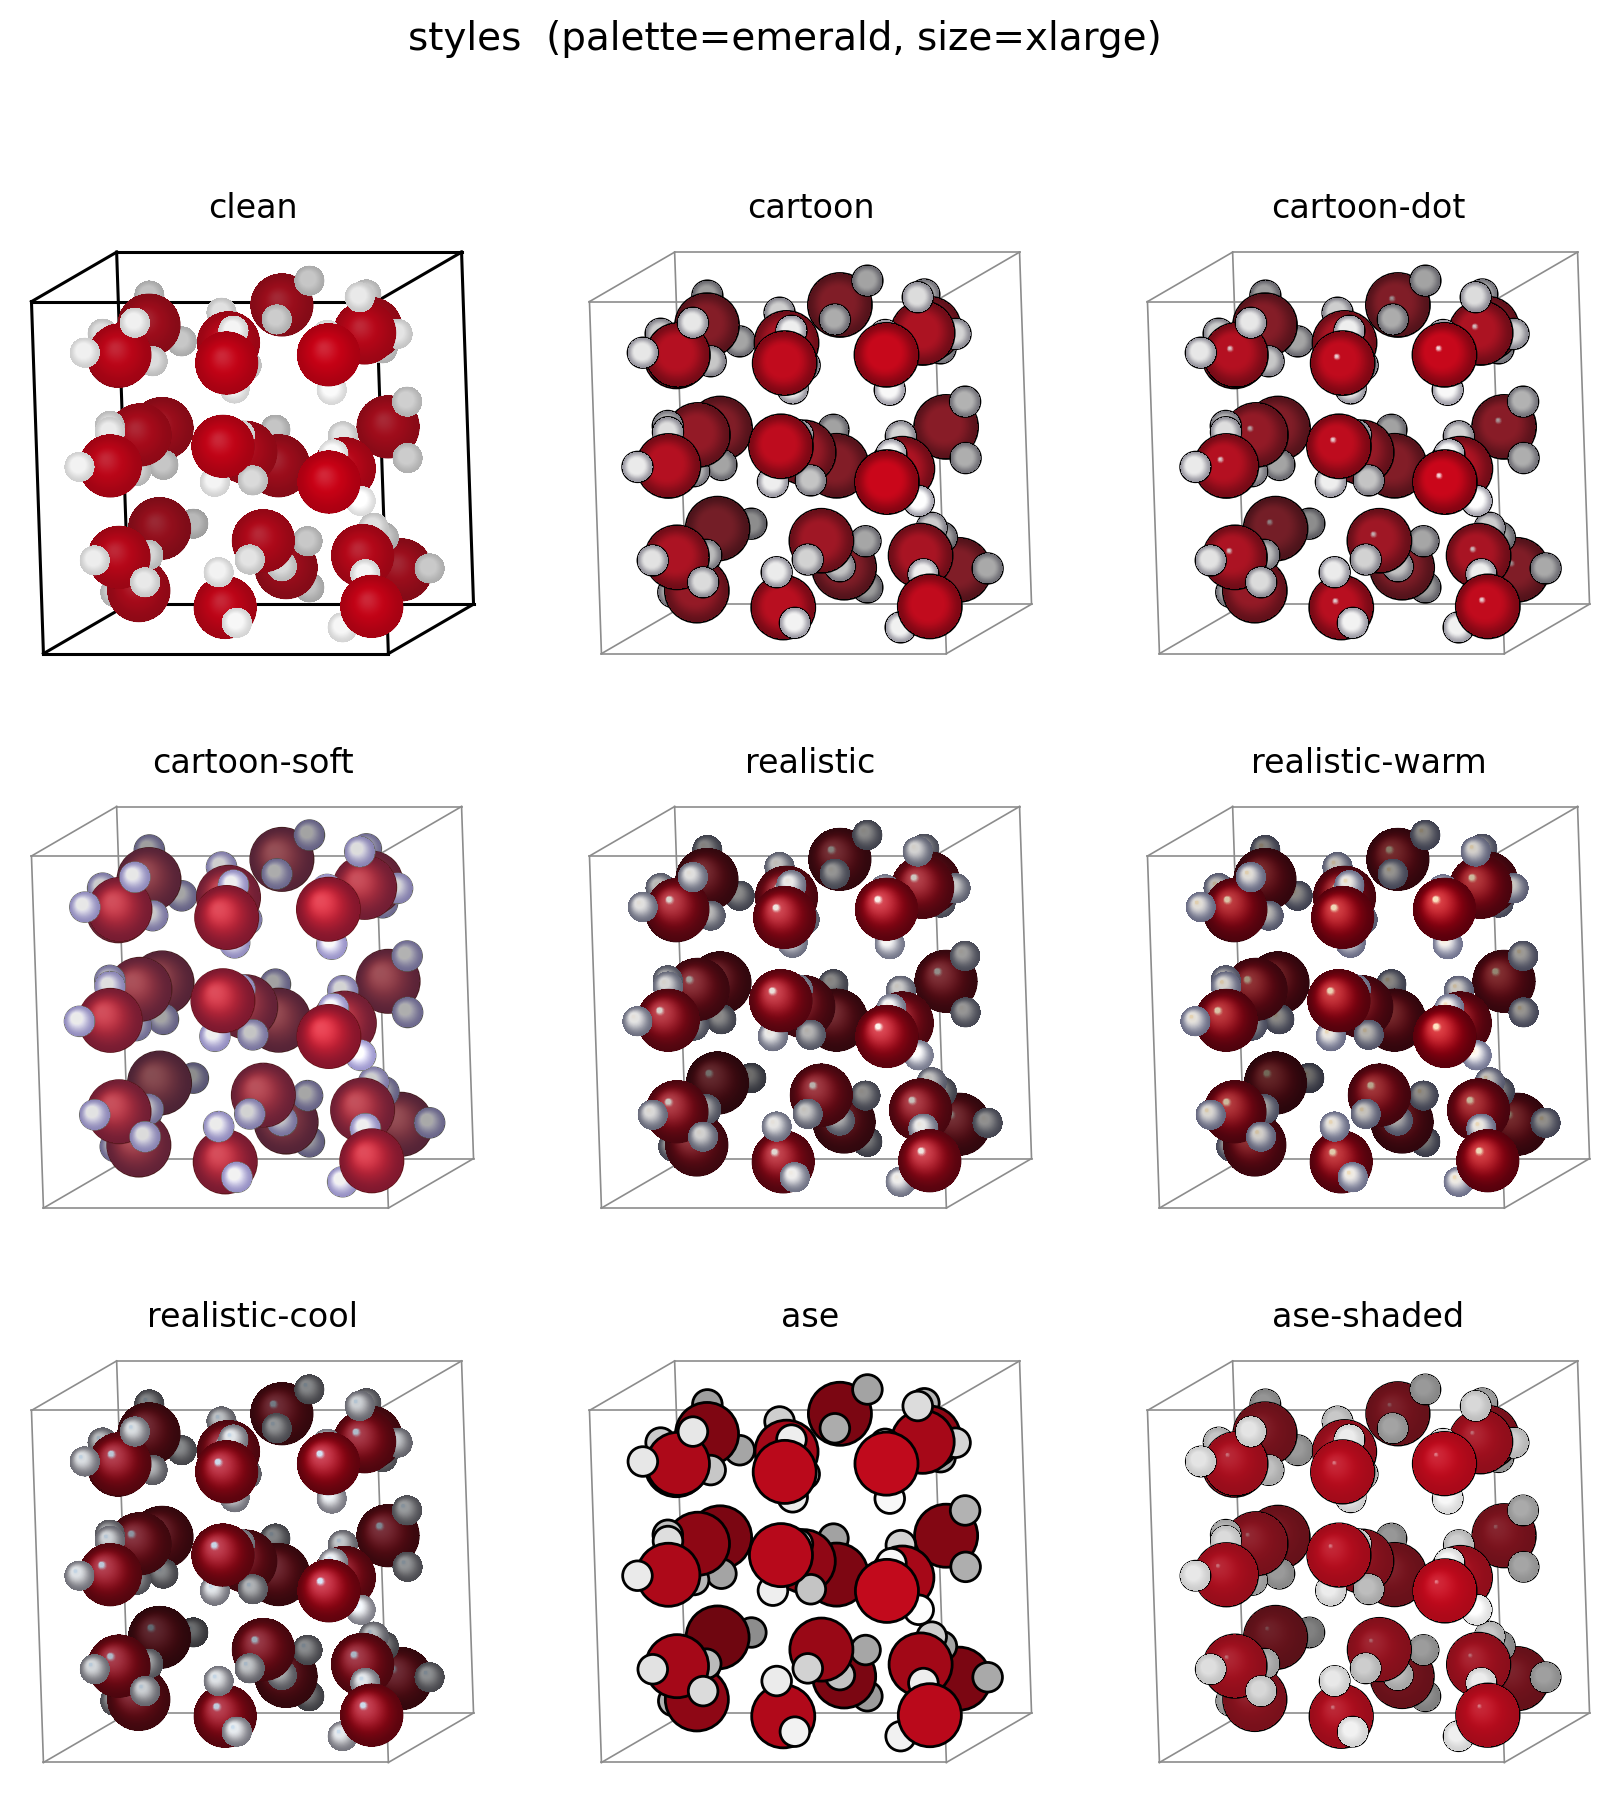
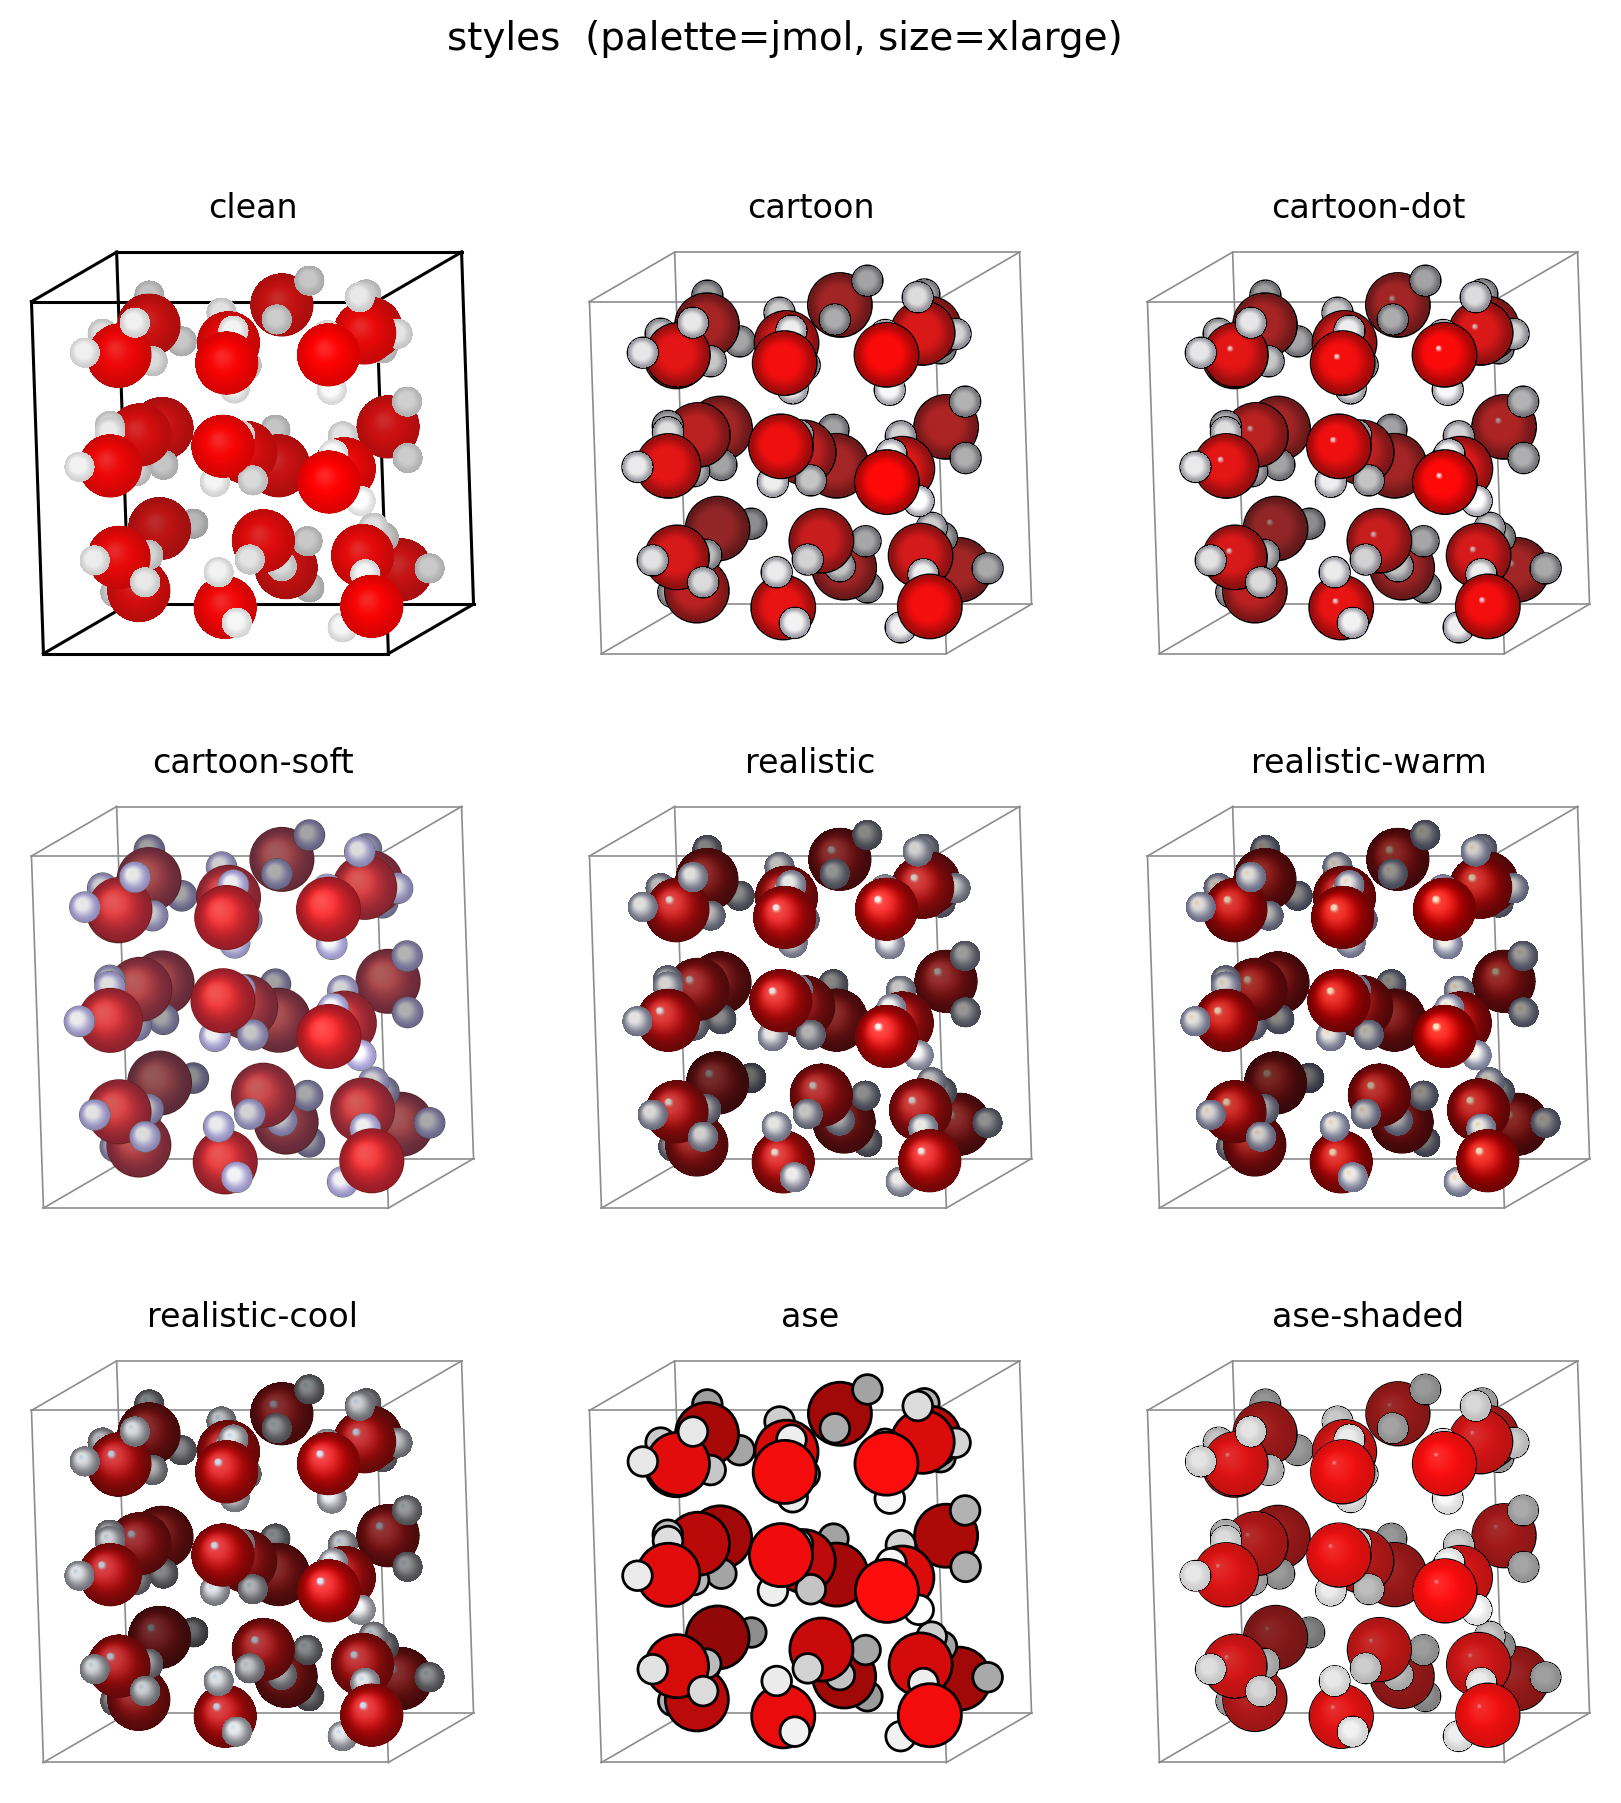
Gallery water renders back to jmol (brighter classic red)

diff --git a/docs/make_gallery.py b/docs/make_gallery.py
@@ -78,9 +78,8 @@ def main():
     wb = water_box()
     cl = demo_cluster()
 
-    # water renders read best in a deep red at xlarge (only O+H, so emerald and
-    # jmol look nearly the same here — emerald just deepens the red)
-    WPAL, WSIZE, WROT = "emerald", "xlarge", "8x,-14y,0z"
+    # water renders read best in classic jmol red/white at xlarge
+    WPAL, WSIZE, WROT = "jmol", "xlarge", "8x,-14y,0z"
 
     # styles: every style on the water box
     _grid(STYLES, lambda s, ax: cv.render(wb, ax, style=s, palette=WPAL,

diff --git a/README.md b/README.md
@@ -61,7 +61,7 @@ them. Run the tests with `pytest`. MIT licensed.
 Pick a `style`, `palette` and `radius_scale` by eye. Regenerate with
 `python docs/make_gallery.py` (self-contained — builds its own demo structures).
 
-**Styles** (water box, `emerald`):
+**Styles** (water box, `jmol`):
 
 ![styles](docs/styles.png)
 